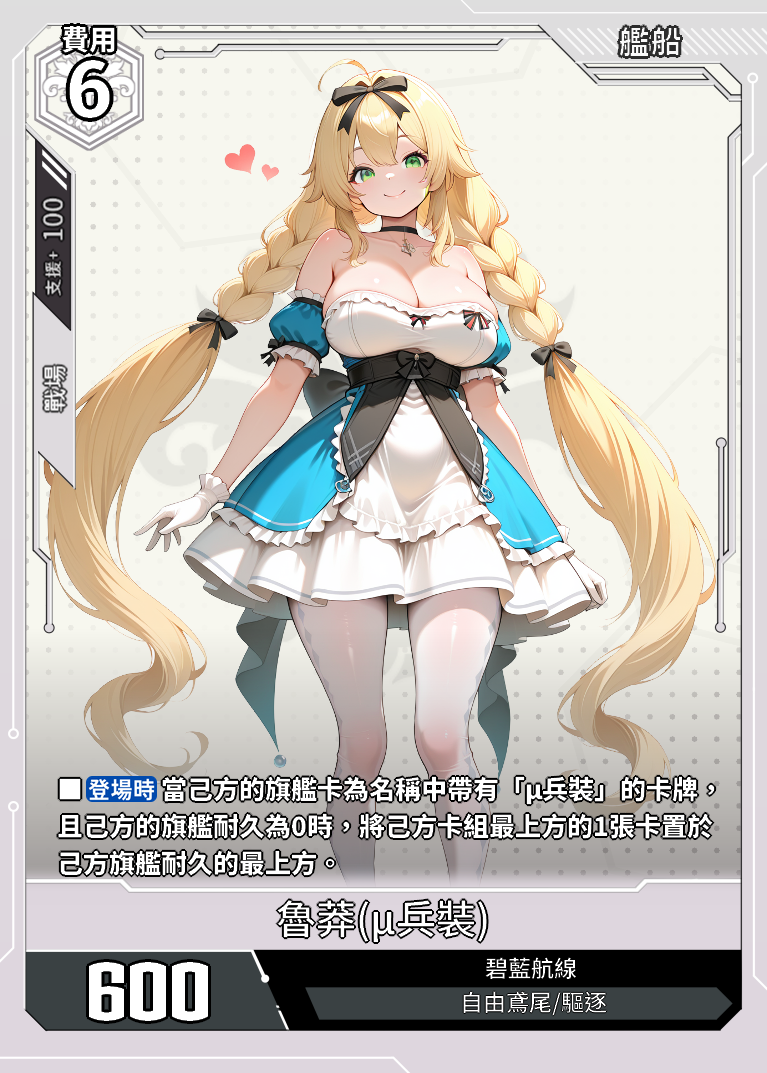
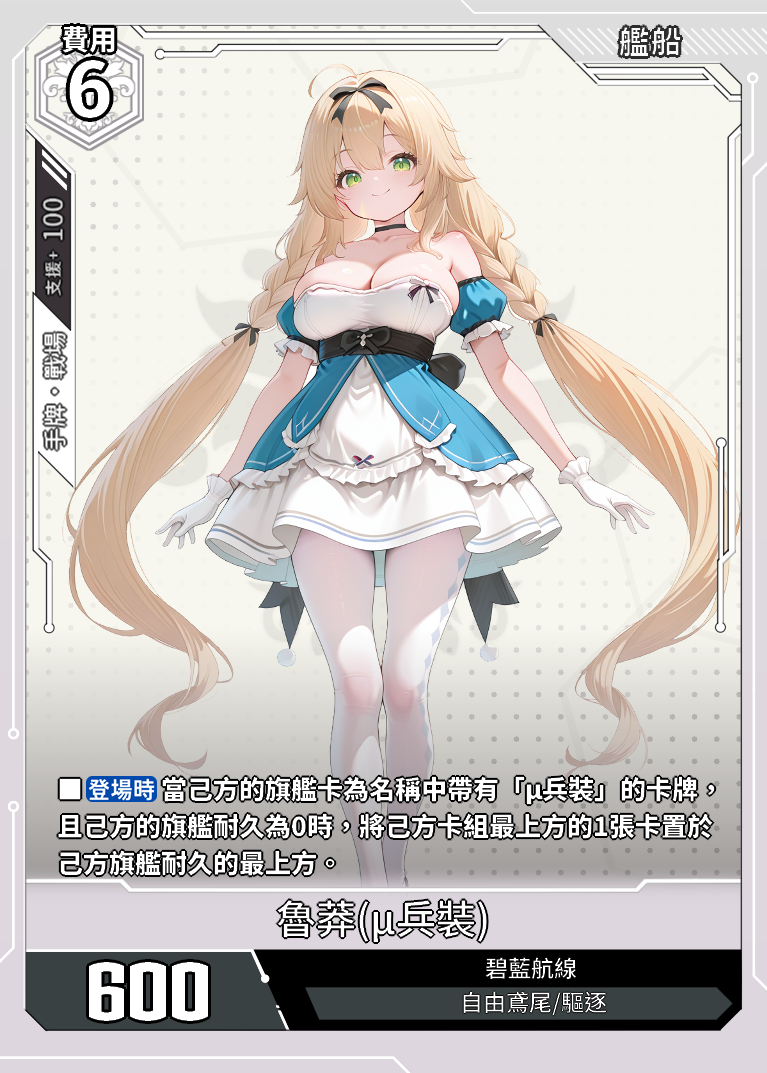
改魯莽

diff --git a/data.js b/data.js
@@ -25492,7 +25492,7 @@ const cards = [
             "艦船類型": "驅逐",
             "罕　貴": "-",
             "勢　力": "碧藍航線",
-            "支援範圍": "戰場",
+            "支援範圍": "手牌·戰場",
             "支援值": "100"
         },
         "card_effect": "■【登場時】當己方的旗艦卡為名稱中帶有「μ兵裝」的卡牌，且己方的旗艦耐久為0時，將己方卡組最上方的1張卡置於己方旗艦耐久的最上方。",
